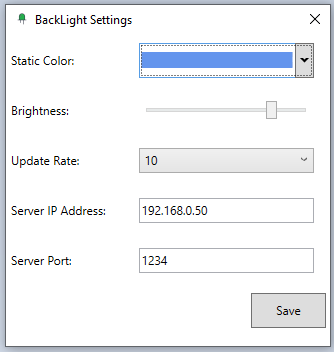
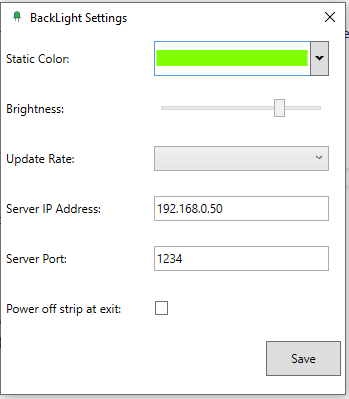
* fixed bug with save button (was always active) * added setting for allowing the user to decide whether or not to disable strip when the application is closed * created new release * updated settings figure for github page

diff --git a/BackLight/BackLight/Settings.xaml b/BackLight/BackLight/Settings.xaml
@@ -6,13 +6,14 @@
         xmlns:local="clr-namespace:BackLight"
         xmlns:toolkit="http://schemas.xceed.com/wpf/xaml/toolkit"
         mc:Ignorable="d"
-        Title="BackLight Settings" Height="350" Width="340" WindowStartupLocation="CenterScreen" Closing="Window_Closing" Icon="icon.ico" ResizeMode="NoResize">
+        Title="BackLight Settings" Height="400" Width="360" WindowStartupLocation="CenterScreen" Closing="Window_Closing" Icon="icon.ico" ResizeMode="NoResize">
     <Grid>
         <Grid.ColumnDefinitions>
-            <ColumnDefinition Width="120"/>
+            <ColumnDefinition Width="140"/>
             <ColumnDefinition Width="200"/>
         </Grid.ColumnDefinitions>
         <Grid.RowDefinitions>
+            <RowDefinition Height="50"/>
             <RowDefinition Height="50"/>
             <RowDefinition Height="50"/>
             <RowDefinition Height="50"/>
@@ -43,6 +44,9 @@
         <Label Content="Server Port:" Grid.Row="4" Grid.Column="0" VerticalAlignment="Center"/>
         <TextBox Name="Port" Grid.Row="4" Grid.Column="1" Height="25" Width="175" VerticalAlignment="Center" VerticalContentAlignment="Center" TextChanged="Port_TextChanged"/>
 
-        <Button Content="Save" Name="SaveButton" Grid.Row="5" Grid.Column="2" Width="75" Height="35" HorizontalAlignment="Right" IsEnabled="False" Click="SaveButton_Click"/>
+        <Label Content="Power off strip at exit:" Grid.Row="5" Grid.Column="0" VerticalAlignment="Center"/>
+        <CheckBox Name="PowerOffCheckBox" Grid.Row="5" Grid.Column="1" Height="25" Width="175" VerticalAlignment="Center" VerticalContentAlignment="Center" Click="PowerOffCheckBox_Click"/>
+
+        <Button Content="Save" Name="SaveButton" Grid.Row="6" Grid.Column="2" Width="75" Height="35" HorizontalAlignment="Right" IsEnabled="False" Click="SaveButton_Click"/>
     </Grid>
 </Window>

diff --git a/BackLight/BackLight/Settings.xaml.cs b/BackLight/BackLight/Settings.xaml.cs
@@ -24,7 +24,11 @@ namespace BackLight
     /// Interaktionslogik für Settings.xaml
     /// </summary>
     public partial class Settings : Window
-    {        
+    {
+        // I use the loading variable to determine, if the settings are currently loaded.
+        // if yes, i don't enable the save button
+        private bool _loading = false;
+
         public Settings()
         {
             InitializeComponent();
@@ -33,11 +37,14 @@ namespace BackLight
 
         private void LoadSettings()
         {
+            _loading = true;
             StaticColor.SelectedColor = DrawingToMedia(Properties.Settings.Default.StaticColor);
             UpdateRate.Text = "" + Properties.Settings.Default.UpdateRate;
             IpAddress.Text = Properties.Settings.Default.IpAddress;
             Port.Text = "" + Properties.Settings.Default.Port;
             BrightnessSlider.Value = Properties.Settings.Default.Brightness;
+            PowerOffCheckBox.IsChecked = Properties.Settings.Default.PowerOffStripAtExit;
+            _loading = false;
         }
 
         /// <summary>
@@ -56,22 +63,42 @@ namespace BackLight
 
         private void StaticColor_SelectedColorChanged(object sender, RoutedPropertyChangedEventArgs<System.Windows.Media.Color?> e)
         {
-            SaveButton.IsEnabled = true;
+            EnableSaveButton();
         }
 
         private void UpdateRate_SelectionChanged(object sender, SelectionChangedEventArgs e)
         {
-            SaveButton.IsEnabled = true;
+            EnableSaveButton();
         }
 
         private void IpAddress_TextChanged(object sender, TextChangedEventArgs e)
         {
-            SaveButton.IsEnabled = true;
+            EnableSaveButton();
         }
 
         private void Port_TextChanged(object sender, TextChangedEventArgs e)
         {
-            SaveButton.IsEnabled = true;
+            EnableSaveButton();
+        }
+
+
+        private void PowerOffCheckBox_Click(object sender, RoutedEventArgs e)
+        {
+            EnableSaveButton();
+        }
+
+
+        private void BrightnessSlider_ValueChanged(object sender, RoutedPropertyChangedEventArgs<double> e)
+        {
+            EnableSaveButton();
+        }
+
+        private void EnableSaveButton()
+        {
+            if (!_loading)
+            {
+                SaveButton.IsEnabled = true;
+            }
         }
 
         private void SaveButton_Click(object sender, RoutedEventArgs e)
@@ -119,6 +146,7 @@ namespace BackLight
             Properties.Settings.Default.IpAddress = IpAddress.Text;
             Properties.Settings.Default.Port = port;
             Properties.Settings.Default.Brightness = (int)BrightnessSlider.Value;
+            Properties.Settings.Default.PowerOffStripAtExit = PowerOffCheckBox.IsChecked == true;
             Properties.Settings.Default.Save();
             SaveButton.IsEnabled = false;
         }
@@ -142,11 +170,6 @@ namespace BackLight
         public static System.Drawing.Color MediaToDrawing(System.Windows.Media.Color color)
         {
             return System.Drawing.Color.FromArgb(color.A, color.R, color.G, color.B);
-        }
-
-        private void BrightnessSlider_ValueChanged(object sender, RoutedPropertyChangedEventArgs<double> e)
-        {
-            SaveButton.IsEnabled = true;
         }
 
         #endregion

diff --git a/BackLight/BackLight/BackLight.xaml.cs b/BackLight/BackLight/BackLight.xaml.cs
@@ -549,17 +549,21 @@ namespace BackLight
         }
 
         /// <summary>
-        /// When we close the window, we also send a "dark packet" to shut down the LED strip
+        /// When we close the window, we also send a "dark packet" to shut down the LED strip (user may disable this)
         /// </summary>
         /// <param name="sender"></param>
         /// <param name="e"></param>
         private void Window_Closing(object sender, System.ComponentModel.CancelEventArgs e)
         {
             _timer.Stop();
-            Thread.Sleep(100); //give the last tick of the timer some time to be finished
-            //then, send the "dark packet" with all colors set to black
-            SetAllToOneColor(Colors.Black);
-            SendPixels(_upperColors, _lowerColors, _leftColors, _rightColors);
+            if (Properties.Settings.Default.PowerOffStripAtExit)
+            {
+                Thread.Sleep(100); //give the last tick of the timer some time to be finished
+                                   //then, send the "dark packet" with all colors set to black
+                SetAllToOneColor(Colors.Black);
+                SendPixels(_upperColors, _lowerColors, _leftColors, _rightColors);
+            }
+            System.Environment.Exit(0);
         }
     }
 }

diff --git a/BackLight/BackLight/Properties/Settings.Designer.cs b/BackLight/BackLight/Properties/Settings.Designer.cs
@@ -82,5 +82,17 @@ namespace BackLight.Properties {
                 this["Brightness"] = value;
             }
         }
+        
+        [global::System.Configuration.UserScopedSettingAttribute()]
+        [global::System.Diagnostics.DebuggerNonUserCodeAttribute()]
+        [global::System.Configuration.DefaultSettingValueAttribute("True")]
+        public bool PowerOffStripAtExit {
+            get {
+                return ((bool)(this["PowerOffStripAtExit"]));
+            }
+            set {
+                this["PowerOffStripAtExit"] = value;
+            }
+        }
     }
 }
